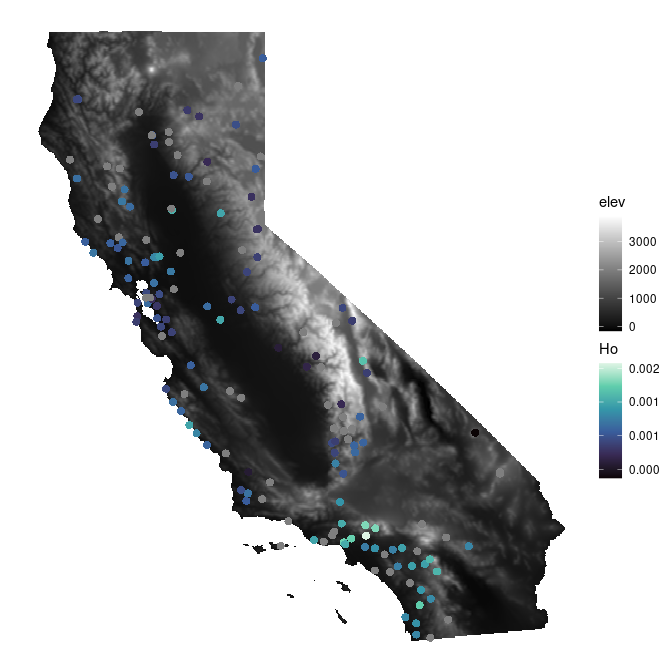
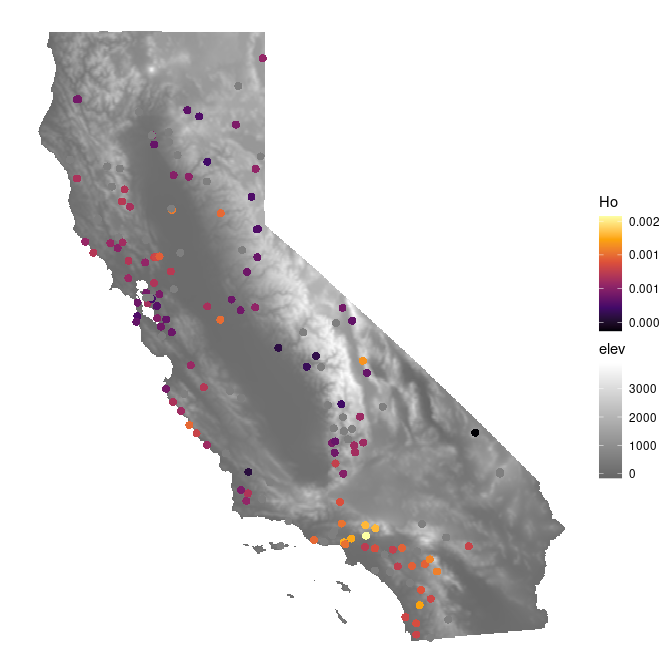
update gendiv

diff --git a/analysis/genetic_diversity/genetic_diversity.md b/analysis/genetic_diversity/genetic_diversity.md
@@ -14,10 +14,10 @@ het <- get_het()
 # Combine coords and het data
 coords <- left_join(coords, het, by = "SampleID") 
 
-ggplot() + 
+ggplot(coords) + 
   geom_sf(data = ca) +
-  geom_sf(data = coords, aes(col = Ho), cex = 3) +
-  scale_color_viridis_c(option = "mako") +
+  geom_sf(aes(fill = Ho), col = "black", pch = 21, cex = 2.5) +
+  scale_color_viridis_c(option = "inferno") +
   theme_void()
 ```
 
@@ -28,8 +28,8 @@ ggplot(coords) +
  geom_sf() +
  geom_raster(data = dem, aes(x = x, y = y, fill = elev)) + 
  geom_sf(aes(geometry = geometry, col = Ho), pch = 16, cex = 2.5) +
- scale_color_viridis_c(option = "mako", labels = scales::label_number(scale = 1, accuracy = 0.001)) +
- scale_fill_gradient(low = "black", high = "white", na.value = NA) +
+ scale_color_viridis_c(option = "inferno", labels = scales::label_number(scale = 1, accuracy = 0.001)) +
+ scale_fill_gradient(low = "gray40", high = "white", na.value = NA) +
  theme_void()
 ```
 
@@ -86,7 +86,7 @@ ggplot(roh_df) +
  geom_raster(data = dem, aes(x = x, y = y, fill = elev)) + 
  geom_sf(aes(geometry = geometry, col = froh), pch = 16, cex = 2.5) +
  scale_color_viridis_c(option = "inferno", trans = "log", labels = scales::label_number(scale = 1, accuracy = 0.001)) +
- scale_fill_gradient(low = "black", high = "white", na.value = NA) +
+ scale_fill_gradient(low = "gray40", high = "white", na.value = NA) +
  theme_void()
 ```
 